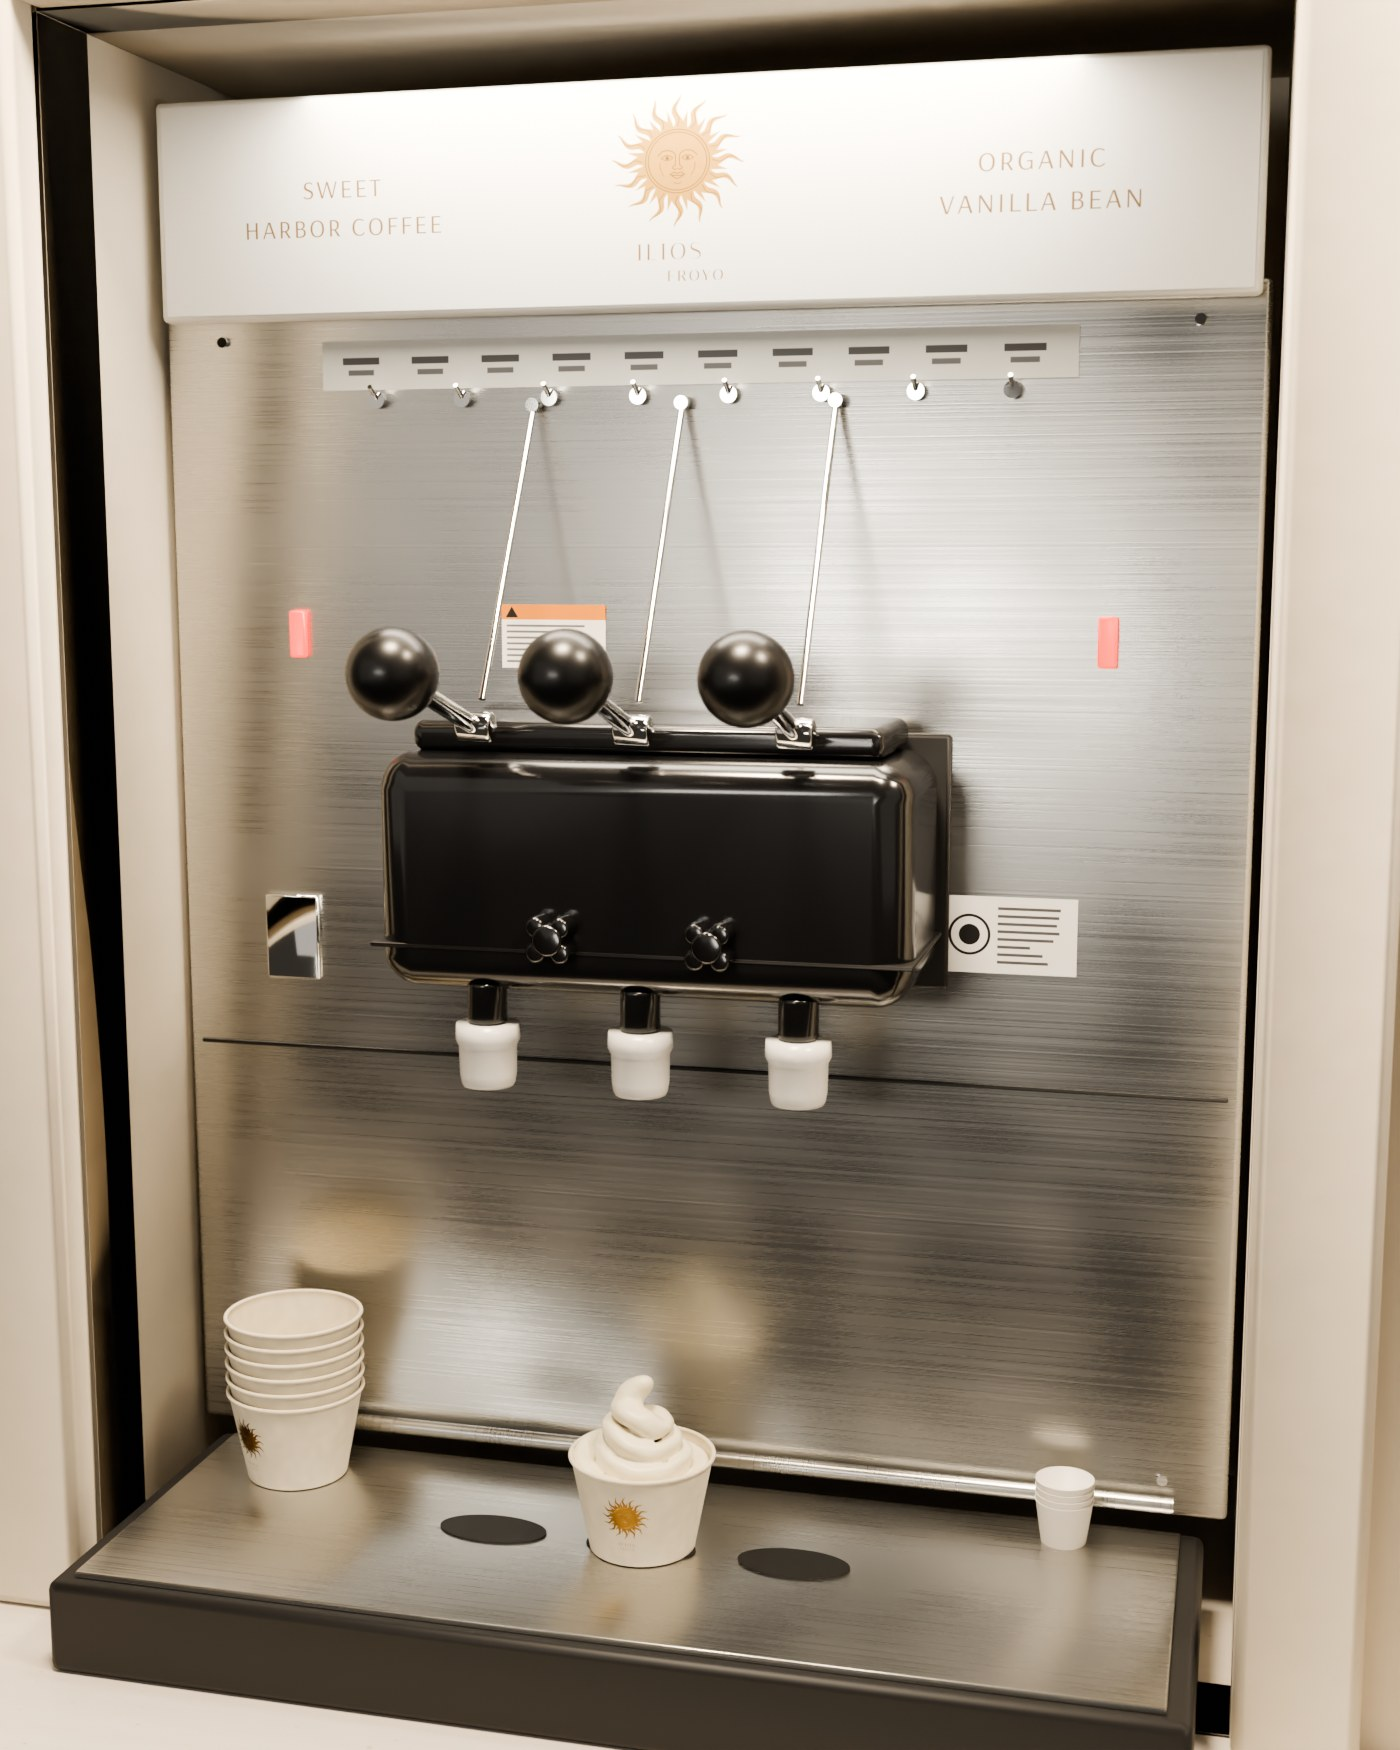
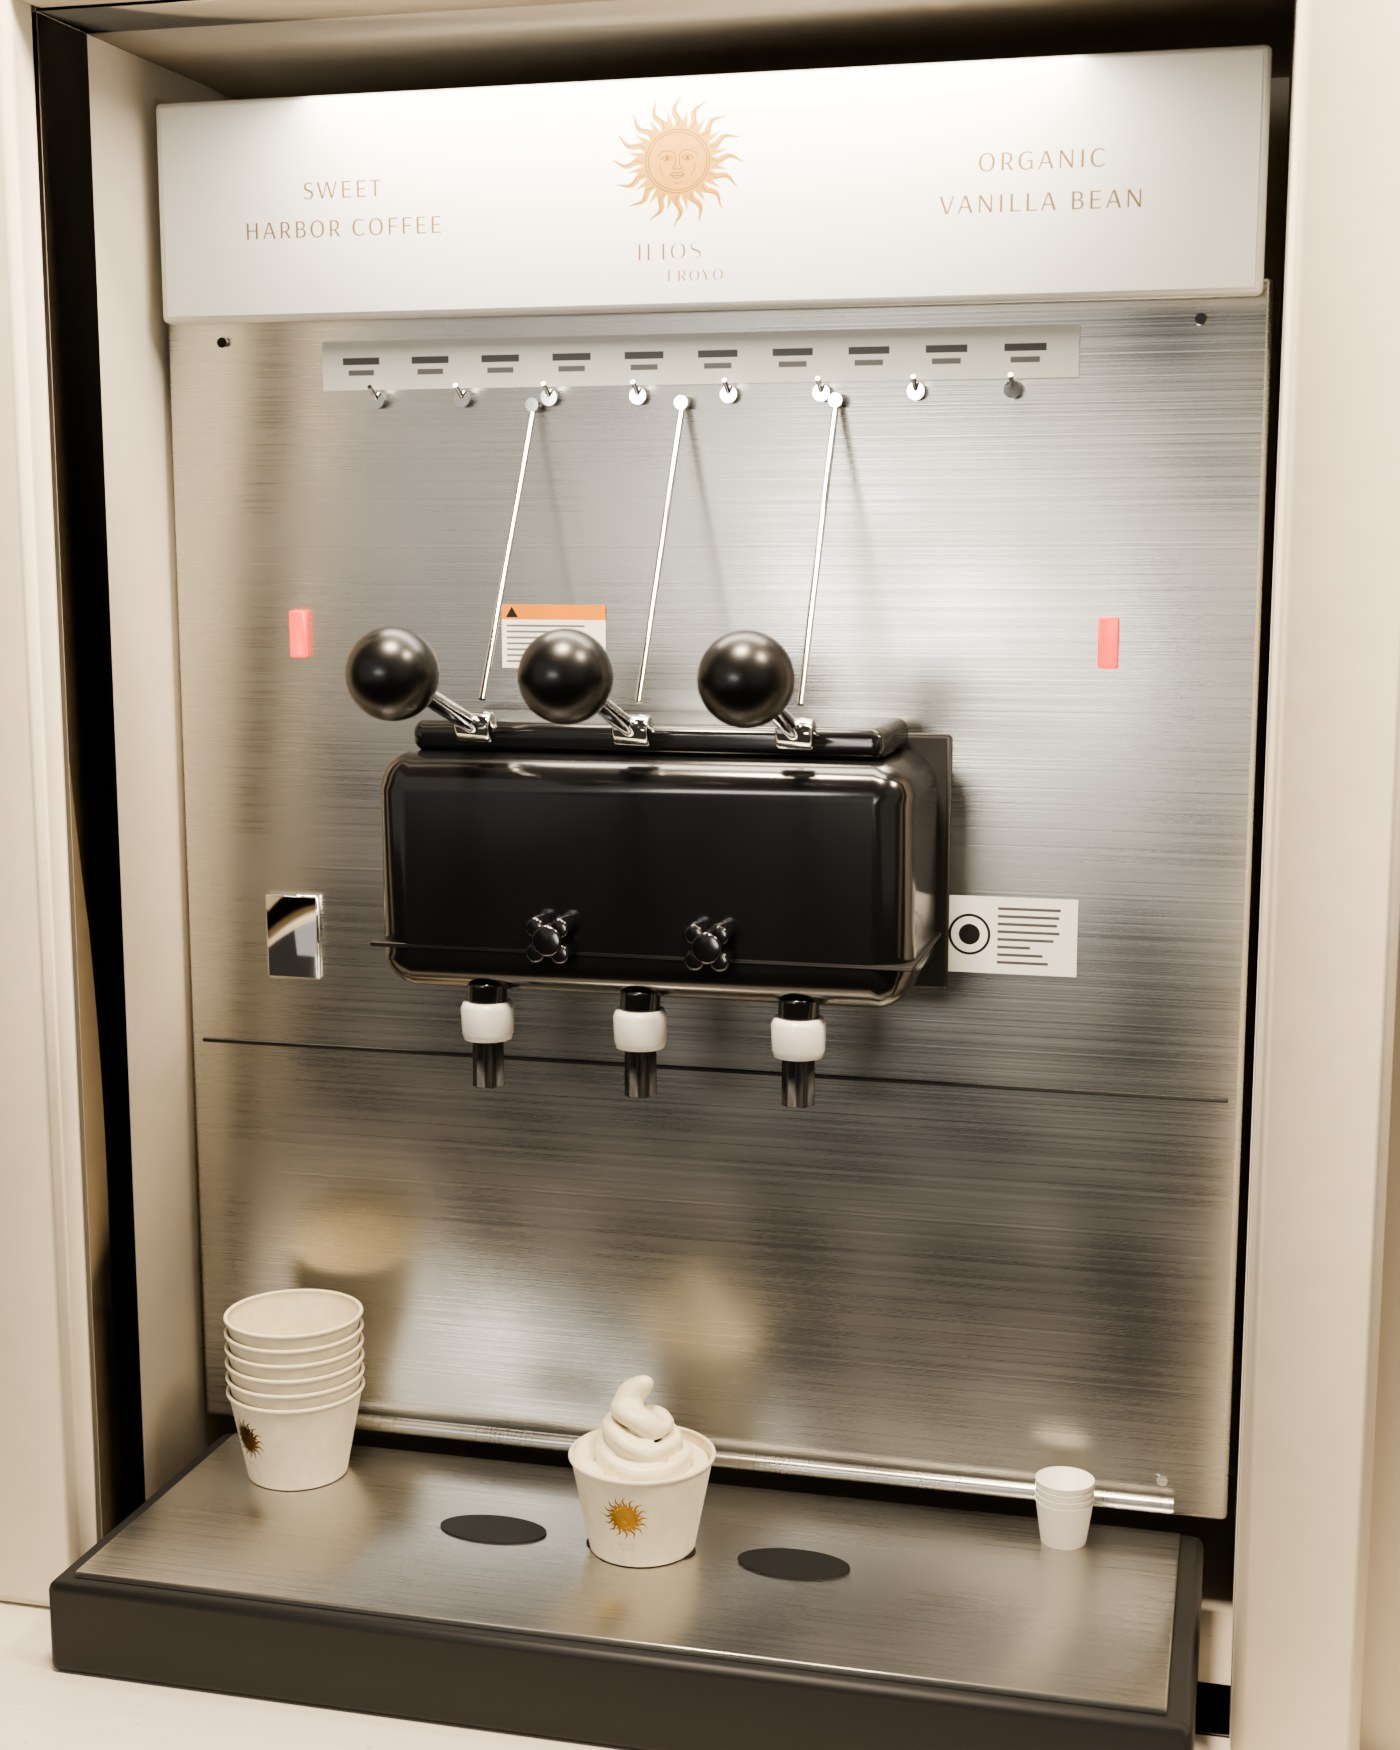
topping bar (live physics, 14 toppings from the shop photos), nozzle/cap resized, renders refreshed
Claude-Session: https://claude.ai/code/session_017VBVRDYVXoyG669dE5FJpU

Changed region(s): [[0.5221, 0.5554, 0.645, 0.648], [0.3993, 0.5554, 0.5221, 0.648], [0.3071, 0.5554, 0.3686, 0.648]]

diff --git a/site/index.html b/site/index.html
@@ -187,10 +187,18 @@ section.s{position:relative;padding:clamp(96px,14vw,180px) var(--gutter)}
 .tchip[aria-pressed="true"] .ti{background-color:color-mix(in srgb,var(--tint,#ccc) 26%,#f1e9d6)}
 .topbar{display:flex;align-items:center;gap:10px;flex-wrap:wrap;margin-top:22px}
 .topbar .btn{min-height:42px;padding:0 18px;font-size:14px}
+.topnote{margin-top:16px;font:400 12px/1.5 var(--mono);letter-spacing:.08em;color:var(--ink-2)}
 #topcount{font:400 12px/1 var(--mono);letter-spacing:.14em;text-transform:uppercase;color:var(--ink-2);margin-left:6px}
 .viewer{aspect-ratio:4/5}
 @media (min-width:821px){.spin .viewer{position:sticky;top:96px;align-self:start}}
-@media (max-width:820px){.viewer{aspect-ratio:1/1}}
+@media (max-width:820px){
+  .spin{gap:18px}
+  .spinl{display:contents}
+  .spinh{order:1}
+  .spin .viewer{order:2;aspect-ratio:auto;height:min(46svh,360px);position:sticky;top:66px;z-index:4;margin:0 calc(var(--gutter) * -0.5)}
+  .spinc{order:3}
+  .topchips{margin-top:6px}
+}
 
 /* what's in it: numbered editorial rows on a dark band */
 .inside{background:var(--ink);color:var(--cream)}
@@ -356,14 +364,19 @@ footer{position:relative;z-index:1;padding:40px var(--gutter) 46px;display:flex;
 
   <section class="s spin io" id="cup">
     <div class="spinl">
-      <p class="kicker reveal">Make it yours</p>
-      <h2 class="big reveal">Top it off.</h2>
-      <p class="reveal lead">Everything from the bar, dropped onto your swirl. Tap a topping and watch it land. Drag the cup to turn it.</p>
-      <div class="topchips reveal" id="topchips" role="group" aria-label="Toppings"></div>
-      <div class="topbar reveal">
-        <button type="button" id="topsurprise" class="btn ghost">Surprise me</button>
-        <button type="button" id="topclear" class="btn ghost">Clear</button>
-        <span id="topcount" aria-live="polite">Plain, the way it pours</span>
+      <div class="spinh">
+        <p class="kicker reveal">Make it yours</p>
+        <h2 class="big reveal">Top it off.</h2>
+        <p class="reveal lead">Everything from the bar, dropped onto your swirl. Tap a topping and watch it land. Drag the cup to turn it.</p>
+      </div>
+      <div class="spinc">
+        <div class="topchips reveal" id="topchips" role="group" aria-label="Toppings"></div>
+        <div class="topbar reveal">
+          <button type="button" id="topsurprise" class="btn ghost">Surprise me</button>
+          <button type="button" id="topclear" class="btn ghost">Clear</button>
+          <span id="topcount" aria-live="polite">Plain, the way it pours</span>
+        </div>
+        <p class="topnote reveal">The bar rotates. Granola is nut free and gluten free.</p>
       </div>
     </div>
     <div class="viewer reveal">
@@ -382,18 +395,6 @@ footer{position:relative;z-index:1;padding:40px var(--gutter) 46px;display:flex;
       <div class="rowi reveal"><i class="sw rasp big-sw"></i><h3>Raspberry</h3><p>Fruit</p></div>
     </div>
     <p class="note reveal">Flavors rotate. These are the ones on the machine signs right now.</p>
-  </section>
-
-  <section class="s toppings io" id="toppings">
-    <div class="tophead">
-      <p class="kicker reveal">The topping bar</p>
-      <h2 class="big reveal">Load it up.</h2>
-    </div>
-    <div class="tgroups">
-      <div class="tg reveal"><h3>Warm and drizzled</h3><ul><li>Pistachio kataifi</li><li>Biscoff crunch</li><li>Honey</li><li>Cinnamon rolls</li><li>Nutella</li></ul></div>
-      <div class="tg reveal"><h3>Fruit</h3><ul><li>Strawberry</li><li>Mango</li><li>Dates</li><li>Figs</li></ul></div>
-      <div class="tg reveal"><h3>Crunch and sweet</h3><ul><li>Granola <small>nut free, gluten free</small></li><li>Chocolate chips</li><li>Brownies</li><li>Rainbow cookies</li><li>Sprinkles</li></ul></div>
-    </div>
   </section>
 
   <section class="s visit io" id="visit">

diff --git a/site/toppings.js b/site/toppings.js
@@ -38,7 +38,7 @@ export const BAR = [
 const NONPAREIL = ['#f7f3ea', '#f4a6b8', '#f7d44a', '#7fc4e8', '#9ad07a', '#f08a3c', '#c79be0', '#e5463f'].map(h => new THREE.Color(h));
 
 const SAUCE = {
-  honey: { color: '#cf7d06', emissive: '#7a3a00', rough: 0.05, coat: 1, alpha: 0.96, r: 0.95 * MM, lines: 4, ang: 0.5 },
+  honey: { color: '#b46c00', emissive: '#5a2f00', rough: 0.04, coat: 1, alpha: 1, r: 1.25 * MM, lines: 4, ang: 0.5 },
   nutella: { color: '#321811', emissive: '#000000', rough: 0.2, coat: 0.8, r: 1.45 * MM, lines: 3, ang: 1.45 },
   pistachio: { color: '#96a64f', emissive: '#10140a', rough: 0.32, coat: 0.4, r: 1.5 * MM, lines: 3, ang: 2.4 },
   biscoff: { color: '#a8631f', emissive: '#2a1204', rough: 0.22, coat: 0.7, r: 1.35 * MM, lines: 4, ang: 0.95 },
@@ -76,6 +76,9 @@ export async function initToppings(o) {
   camera.position.set(0.12, 0.2, 0.34);
 
   const model = cup.clone(true);
+  model.position.set(0, 0, 0);
+  model.rotation.set(0, 0, 0);
+  model.scale.set(1, 1, 1);
   model.traverse(ob => {
     if (!ob.isMesh) return;
     if (ob.name === 'Swirl' || ob.name === 'SwirlCore') { ob.visible = false; return; }
@@ -398,7 +401,14 @@ export async function initToppings(o) {
       for (const it of g.items) {
         if (!g.leaving) it.s = Math.min(1, Math.max(0, (g.t + it.born) / 0.06 + 0.001));
         const tr = it.body.translation(), ro = it.body.rotation();
-        if (!it.body.isSleeping()) anyAwake = true;
+        if (!it.body.isSleeping()) {
+          // set into the froyo and quiet: let it sleep (a trimesh contact can jitter forever otherwise)
+          const lv = it.body.linvel();
+          const sp = Math.abs(lv.x) + Math.abs(lv.y) + Math.abs(lv.z);
+          if (it.stuck) it.stuckT = (it.stuckT || 0) + dt;
+          if ((it.stuck && it.stuckT > 0.5 && sp < 0.06) || g.t > 4.5) it.body.sleep();
+          else anyAwake = true;
+        }
         pv.set(tr.x, tr.y, tr.z);
         q.set(ro.x, ro.y, ro.z, ro.w);
         sc.setScalar(it.s);
@@ -423,7 +433,7 @@ export async function initToppings(o) {
       const other = a === froyoCol.handle ? b : b === froyoCol.handle ? a : null;
       if (other === null) return;
       const it = byHandle.get(other);
-      if (it && !it.stuck) { it.stuck = true; it.body.setLinearDamping(14); it.body.setAngularDamping(14); }
+      if (it && !it.stuck) { it.stuck = true; it.body.setLinearDamping(30); it.body.setAngularDamping(30); it.body.setGravityScale(0.05, true); }
     });
   }
 

diff --git a/source/make_artifact.py b/source/make_artifact.py
@@ -45,6 +45,9 @@ fj = "\n".join(l for l in fj.splitlines() if not l.startswith("import "))
 js = js.replace("import * as THREE from 'three';", "import * as THREE from 'three';\n" + "\n".join(imports), 1)
 js = js + "\n" + fj
 h = h.replace('"fflate": "./vendor/fflate.js"', '"fflate": "https://cdn.jsdelivr.net/npm/fflate@0.8.2/esm/browser.js"')
+h = h.replace('"rapier": "./vendor/rapier.es.js"', '"rapier": "https://cdn.jsdelivr.net/npm/@dimforge/rapier3d-compat@0.14.0/rapier.es.js"')
+assert "rapier3d-compat" in h
+# site/toppings.js is published next to the page and imported lazily (it carries its own `import`s, resolved by the map)
 h = h.replace('<script type="module" src="main.js"></script>', '<script type="module">\n' + js + "\n</script>")
 open(out, "w", encoding="utf8").write(h)
 print("wrote", out, len(h))

diff --git a/README.md b/README.md
@@ -22,6 +22,8 @@ renders/                                 photoreal Cycles renders (product shots
 source/
   mpm.py                                 the pour: a yield-stress paste (MLS-MPM) simulation (see below)
   validate.py / bake_web.py / analyze.py  physics checks, web bake, surface extraction
+  toppings.py                            Blender: the topping pieces (vertex-painted, one material) -> toppings.glb
+  clearance.py                           proves the cup never touches the dispenser, tray or room
   tex.py                                 procedural textures: sun emblem, paper, brushed steel, marble, froyo micro-surface
   build.py                               Blender script: builds the cup, swirl, machine, materials; exports GLB + pour path
   render.py                              Cycles product renders
@@ -90,13 +92,27 @@ page settles on the finished cup with directions.
   1.5 mm/s), the stream keeps its thickness, nothing leaves the paper, the 11 cm pile is under the 16 cm
   self-supporting limit sqrt(3) tau_y/(rho g), and volume is conserved. Some air stays trapped between layers
   (void fraction ~0.28 inside the cup), as in real soft serve. Not modelled: the star-nozzle ridges.
-  The site replays the baked frames (`pour.bin`, 2.8 MB; voxel fields, keyframe + deltas, deflate) and meshes each
-  frame with marching cubes in the browser, so scrolling scrubs the simulation, forwards or back.
+  The site replays the baked frames (`pour.bin`, 4.7 MB: 1.5 mm voxel fields, flavour at half resolution, keyframe +
+  deltas, deflate) and meshes each frame with marching cubes in the browser (wide-stencil normals, so the surface is
+  smooth, with a fine bubble grain in the shader), so scrolling scrubs the simulation, forwards or back.
+- **Nothing touches.** `source/clearance.py` rebuilds the cup's whole path (all three handles, 401 scroll positions) and
+  tests it against every surface of the machine, tray and room, plus the froyo, with 1 mm of clearance. The nozzle is
+  a 20 mm star tip and a 34 mm white cap 30 mm above it, sized so the simulated hand never carries either into the cup
+  wall; the page also clamps the hand to the same limits (`nozzleCap()` in `site/main.js`). Result: no overlaps.
 - The scroll position is eased (frame-rate independent lerp) and the render loop rests once it has caught up.
 - Phones get the same 3D scene with portrait framing. Reduced motion gets the finished frame, with no scrubbing.
   If WebGL fails, the page shows a still render.
-- Below the hero: the name story (Ilios = Greek for sun), an interactive spin viewer of the same cup model,
-  the flavors on the machine signs, the topping bar, and visit/directions.
+- Below the hero: the name story (Ilios = Greek for sun), **the topping bar** (below), the flavors on the machine
+  signs, and visit/directions.
+- **The topping bar** (`site/toppings.js`, `source/toppings.py`): the finished cup, live, with the 14 items from the
+  shop's bar, built from the photos of it: pistachio kataifi (green cream, golden shreds, crushed pistachio), Biscoff
+  crunch (caramel and cookie shards), cinnamon-roll bites with icing, honey, Nutella, diced strawberry and mango,
+  chopped dates, fig quarters, oat granola clusters, dark chocolate chips, brownie cubes, New York rainbow-cookie
+  slices and nonpareil sprinkles. Solid pieces are rigid bodies in a physics engine (Rapier, WASM): each is a convex
+  hull of its modelled mesh with its own weight and friction, dropped over the swirl in slow motion onto the froyo's
+  own collision mesh (the last frame of the pour), so they land, tumble and set into it (soft serve is cold and tacky:
+  whatever touches it sticks). Sauces are a thread ray-cast onto whatever is under it, froyo and pieces alike, drawn on
+  over a second. Any combination works; the physics is live, not baked, so it never plays the same way twice.
 
 Preview locally (it has to be served; opening `index.html` from disk won't load the models):
 
@@ -128,6 +144,12 @@ python source/validate.py /tmp/mpm
 python source/analyze.py /tmp/mpm last --obj /tmp/mpm/last.obj --vs 0.0014
 python source/bake_web.py /tmp/mpm site/assets
 SWIRL_OBJ=/tmp/mpm/last.obj python source/build.py /tmp/tex /tmp/out   # then compress as above
+```
+Check the dispenser clearance, rebuild the toppings, and compress them:
+```
+python source/clearance.py /tmp/out/ilios-softserve-machine.glb /tmp/out/ilios-room.glb /tmp/out/pour-path.json /tmp/mpm 1
+python source/toppings.py /tmp/top            # add `sheet` as a 2nd argument for a Cycles contact sheet
+npx gltf-transform optimize /tmp/top/toppings.glb site/assets/models/toppings.glb --compress meshopt --simplify false --flatten false --join false
 ```
 `source/sim.py` is the superseded elastic-rope version (it looked like a worm); kept for reference only.
 
